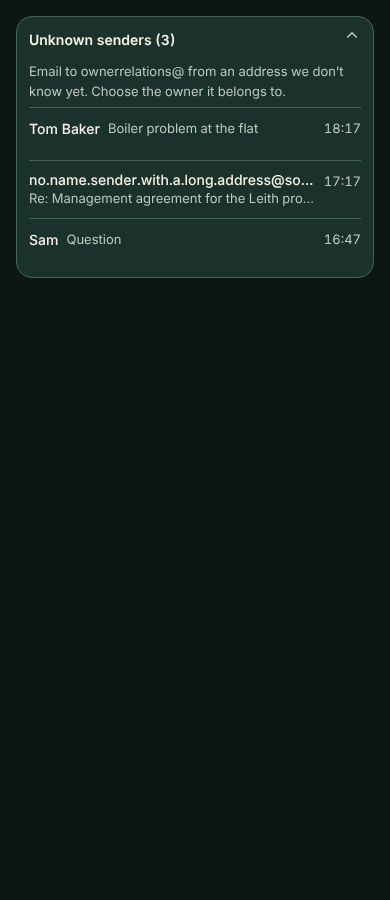
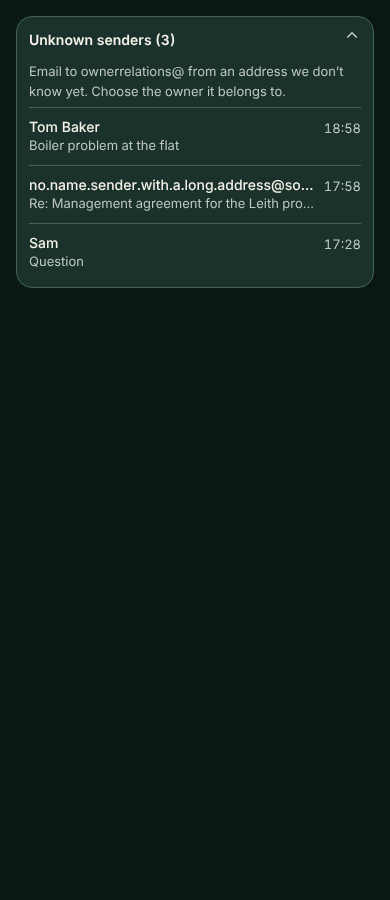
Unknown senders: every row is two lines (name or address, then the subject); screenshots

Changed region(s): [[0.0308, 0.1244, 0.9538, 0.3422], [0.8308, 0.1867, 0.9231, 0.2178], [0.8923, 0.1244, 0.9231, 0.1556]]

diff --git a/mobile/src/EmailUnknownSenders.tsx b/mobile/src/EmailUnknownSenders.tsx
@@ -61,15 +61,10 @@ export function EmailUnknownSenders({ p, onChanged }: { p: Palette; onChanged: (
           <View key={r.id} style={{ gap: 6, borderTopWidth: 1, borderColor: p.border, paddingTop: 6 }}>
             <MotionPress accessibilityRole="button" accessibilityState={{ expanded: open === r.id }} accessibilityLabel={`${r.name ?? r.from}, ${r.subject ?? "no subject"}`} onPress={() => { setOpen(open === r.id ? null : r.id); setOwnerId(""); setError(""); }}
               style={[ui.row, { gap: 8, minHeight: 40, alignItems: "flex-start", paddingVertical: 4 }]}>
-              {/* A sender with a name: name and subject share a line. A sender with no name: the address on top and the subject on a second line. */}
+              {/* Every row has the same two lines: who it is from (the name, or the address when there is none), then the subject. */}
               <View style={{ flex: 1, minWidth: 0 }}>
-                {r.name ? <View style={[ui.row, { gap: 8 }]}>
-                  <Text numberOfLines={1} style={{ color: p.text, fontSize: 14, fontWeight: "500", flexShrink: 1 }}>{r.name}</Text>
-                  <Text numberOfLines={1} style={[ui.small, { color: p.muted, flex: 1 }]}>{r.subject ?? ""}</Text>
-                </View> : <>
-                  <Text numberOfLines={1} style={{ color: p.text, fontSize: 14, fontWeight: "500" }}>{r.from}</Text>
-                  {!!r.subject && <Text numberOfLines={1} style={[ui.small, { color: p.muted }]}>{r.subject}</Text>}
-                </>}
+                <Text numberOfLines={1} style={{ color: p.text, fontSize: 14, fontWeight: "500" }}>{r.name ?? r.from}</Text>
+                {!!r.subject && <Text numberOfLines={1} style={[ui.small, { color: p.muted }]}>{r.subject}</Text>}
               </View>
               <Text style={[ui.small, { color: p.muted }]}>{chatTime(r.receivedAt)}</Text>
             </MotionPress>
